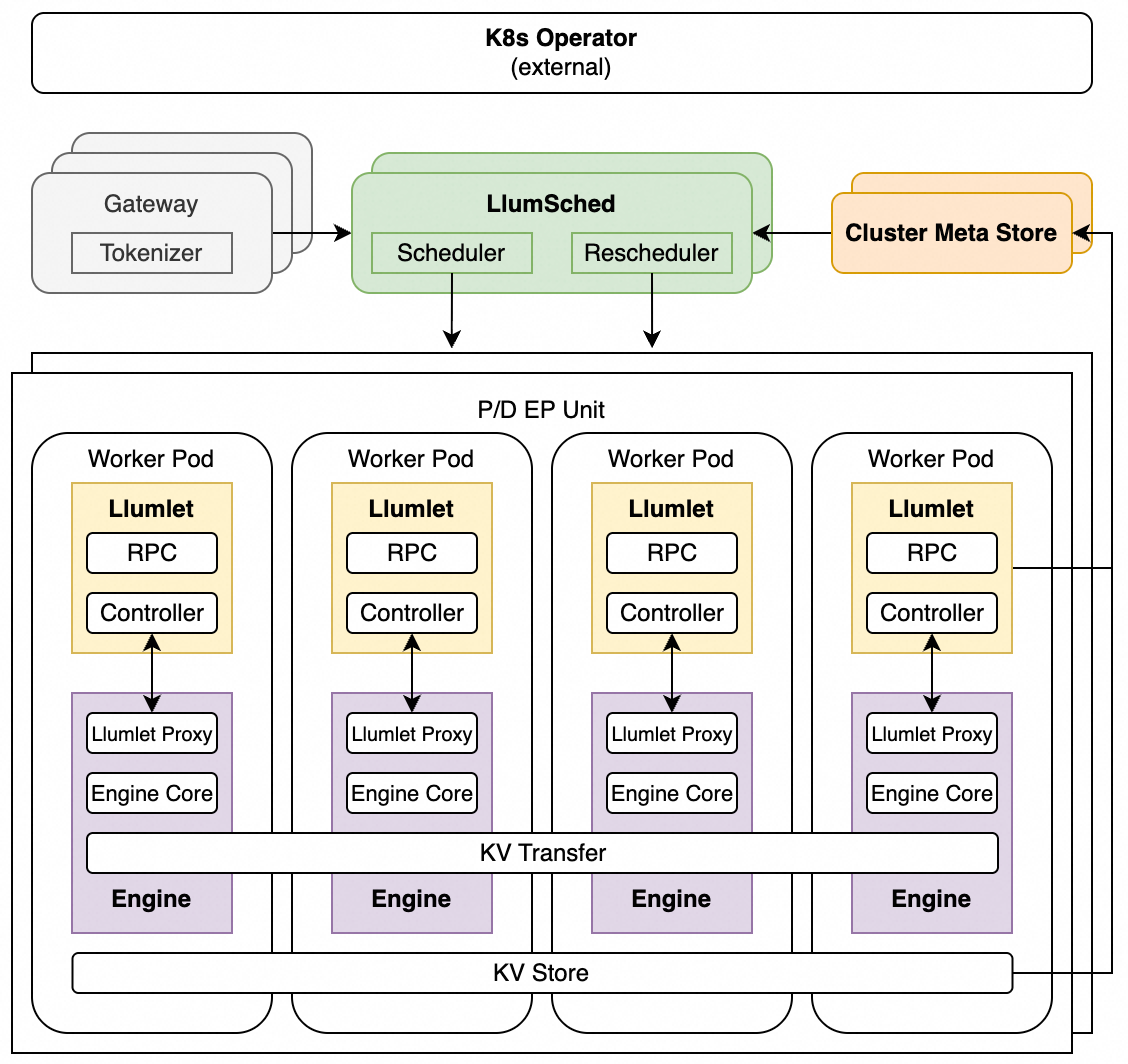
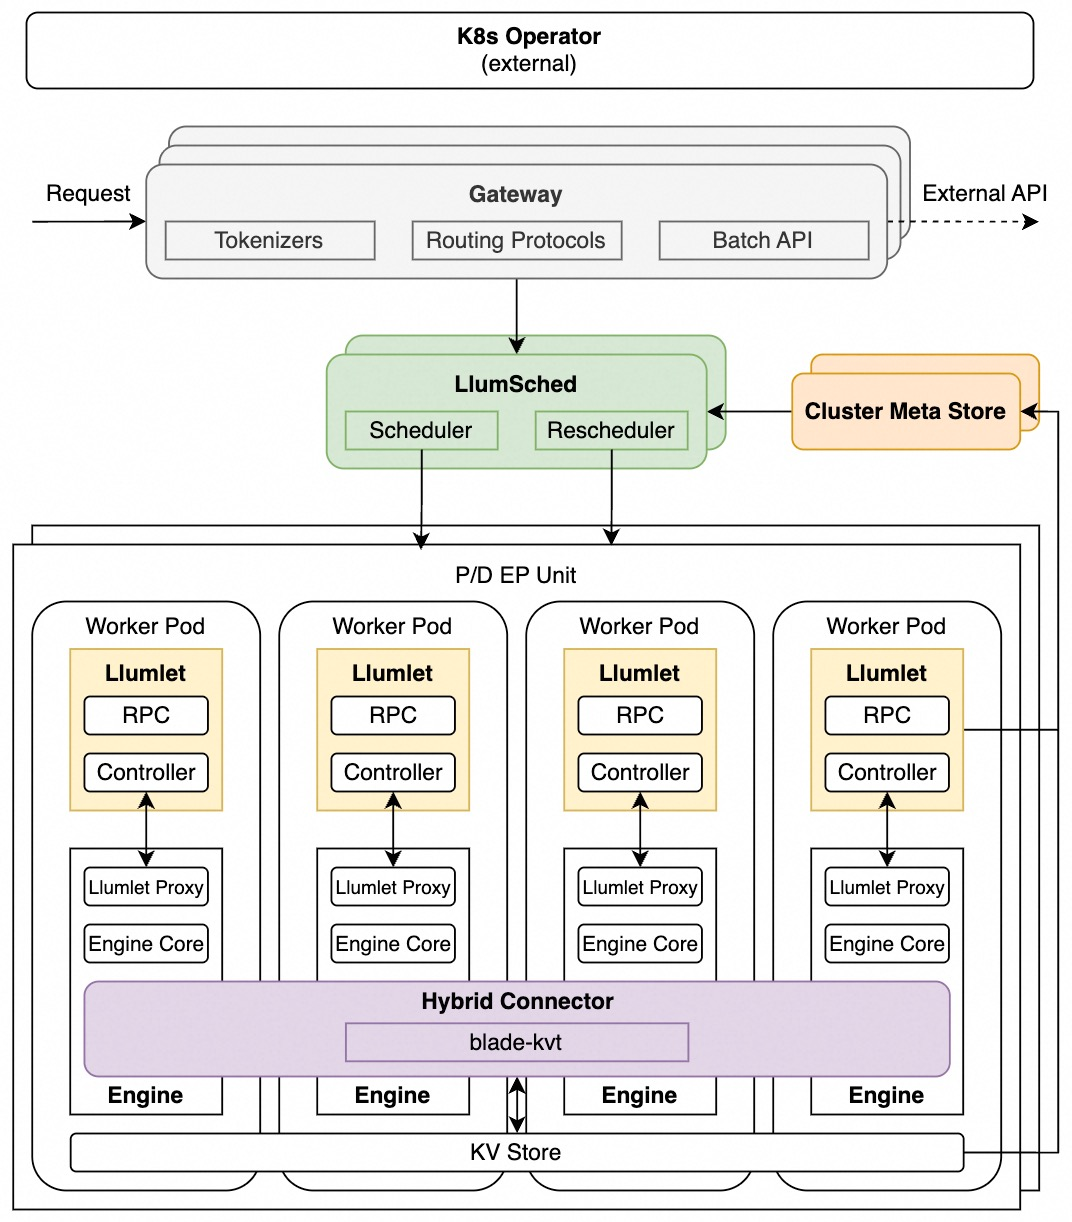
refine readme

diff --git a/README.md b/README.md
@@ -1,29 +1,26 @@
-# About Llumnix
+# About
 
-Llumnix is a full-stack solution for distributed LLM inference serving. It has been a key part of the LLM serving infrastructure of PAI-EAS, a cloud-native inference serving platform on Alibaba Cloud, supporting production-grade inference deployments.
-Llumnix features
-distributed serving system designed for modern LLM inference deployments (e.g., PD disaggregation, large-scale EP), with a current focus on advanced request scheduling. With a scheduler + rescheduler architecture and white-box scheduling design, Llumnix achieves fully dynamic request scheduling and pushes the performance of inference engines to the limit.
-With this new repository, we are re-architecting Llummix to a more modular and cloud-native design (Llumnix v1). The old Ray-based architecture (Llumnix v0) is a better choice for local deployments and quick prototyping and experimentation of scheduling ideas.
+Llumnix is a full-stack solution for distributed LLM inference serving. It has been a key part of the LLM serving infrastructure of [PAI-EAS](https://help.aliyun.com/zh/pai/user-guide/overview-2?spm=a2c4g.11174283.help-menu-30347.d_3_3_0.3416192348t6Fw), a cloud-native inference serving platform on Alibaba Cloud, supporting production-grade inference deployments.
+
+Llumnix provides key functionalities for modern distributed serving deployments (e.g., PD disaggregation, wide EP), such as LLM-specialized request gateway, intelligent and dynamic scheduling, high-performance KV cache transfer/storage support, etc. With a scheduler + rescheduler architecture and white-box scheduling design, Llumnix achieves fully dynamic request scheduling and pushes the performance of inference engines to the limit.
+
+Note that with this new repository, we are re-architecting Llummix to a more modular and cloud-native design (Llumnix v1). The old Ray-based architecture (Llumnix v0) is a better choice for local deployments and quick prototyping and experimentation of scheduling ideas.
 
 # Key features
-1. Scheduler + rescheduler architecture for fully dynamic request scheduling
-    a. Scheduler for initial routing
-    b. Rescheduler for continuous migration
-2. Smart scheduling policies for modern distributed serving: 
-    a. Extreme load balancing for PD+EP: migration-enhanced DPLB, predictor-based prefill scheduling, etc.
-    b. Precise KV-aware scheduling
-    c. Adaptive PD disaggregation: taming instantaneous P-D load fluctuation
-    d. ...
-3. Realtime tracking of instance status for optimal scheduling quality
-    a. Lightweight scheduler-engine sync to eliminate information lag
-4. Modular, extensible scheduling policy framework for easily implementing and composing new policies
-5. Dual-mode scheduling
-    a. Full mode for max performance with engine participation (white-box)
-    b. Basic mode for engine-transparent deployments (black-box)
-6. LLM-specialized request gateway: tokenizers, diverse request routing / disaggregation protocols, etc.
-7. Fault tolerance
-    a. Fault tolerance for Llumnix components
-    b. Engine health monitoring and reacitve (re-)scheduling upon engine failures
+- **Scheduler + rescheduler architecture** for fully dynamic request scheduling: initial routing + continuous migration
+- **Advanced scheduling policies**: load balancing, KV-aware, SLO/predictor-based scheduling, adaptive PD disaggregation, etc.
+- **Dual-mode scheduling**
+  - Full mode (white-box) for max performance with engine participation
+  - Lite mode (black-box) for engine-transparent deployments
+- **Realtime instance status tracking** for optimal scheduling quality
+- **Modular, extensible policy framework** for easily implementing and composing scheduling policies
+- **LLM-specialized request gateway**: tokenizers, diverse request routing / disaggregation protocols, batch API, etc.
+- **High-performance KV cache support** (see [llumnix-kv](https://github.com/llumnix-project/llumnix-kv))
+  - Efficient, flexible data plane for KV cache transfer (blade-kvt)
+  - Unified control plane for PD disaggregation, migration, KV storage (hybrid-connector)
+- **High availability**
+  - Fault tolerance for Llumnix components
+  - Engine health monitoring and reactive (re-)scheduling upon engine failures
 
 # Architecture
 Llumnix is more than a "router". It has a full-stack design to support advanced scheduling features.
@@ -32,8 +29,9 @@ Llumnix is more than a "router". It has a full-stack design to support advanced 
 1. LlumSched: scheduler for initial scheduling and rescheduler for continuous rescheduling
 2. Llumlet: an engine-side process that bridges global components and the inference engine
 3. Cluster meta store: tracking realtime instance status
-4. Engine: the inference engine (vLLM/SGLang) with Llumnix utility codes for scheduling enhancements
+4. Engine: the inference engine (vLLM/SGLang) with Llumnix utility codes for scheduling enhancements (if using full mode)
 5. Gateway: LLM-specialized capabilities, such as tokenizers, routing protocols
+6. Hybrid Connector: unified KV cache control plane, using blade-kvt for KV transfer and external KV storage for offloading
 
 # Getting Started
 Llumnix supports multiple deployment modes and scheduling strategies to meet different inference requirements. 
@@ -162,3 +160,8 @@ bash scripts/build_llumnix_whl.sh
 bash scripts/build_vllm_release.sh
 # For PD-KVS mode, also build Mooncake-enabled image: bash scripts/build_vllm_release.sh --include_mooncake
 # Optional: --push, --repository <registry>/vllm, --tag <image-tag>
+```
+
+# License
+
+Llumnix is licensed under the [Apache 2.0 License](LICENSE).
